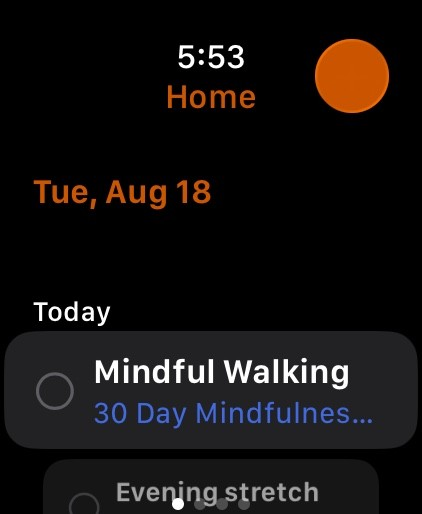
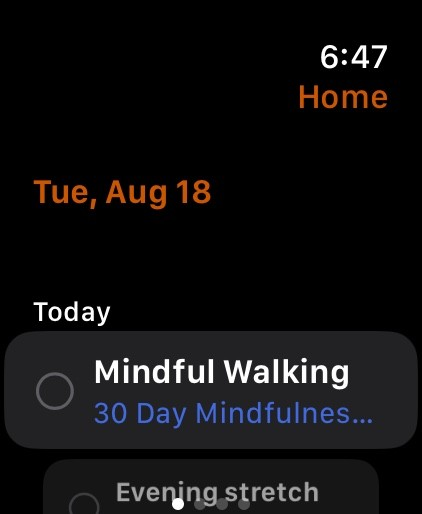
Show Watch without Quick Add and put the plus on Home Screen widgets.

Changed region(s): [[0.7085, 0.0623, 0.9242, 0.2179], [0.3697, 0.0623, 0.6161, 0.2179]]

diff --git a/index.html b/index.html
@@ -58,7 +58,7 @@
       </article>
       <article class="feature">
         <h2>Keep it with you</h2>
-        <p>Widgets on the Home Screen and a Watch app so you can update from wherever you train. Progress, plans, and trophies stay in sync over iCloud.</p>
+        <p>Home Screen widgets have a plus for Quick Tasks, and the Watch app lets you check off workouts on your wrist. Progress, plans, and trophies stay in sync over iCloud.</p>
       </article>
     </section>
 
@@ -168,7 +168,7 @@
       <h2>On Apple Watch</h2>
       <p>Watch</p>
     </div>
-    <p class="section-lede">Swipe between Home, Calendar, Progress, and Settings. Add a Quick Task from the plus button, mark a workout complete on your wrist, and it syncs back to iPhone and iPad.</p>
+    <p class="section-lede">Swipe between Home, Calendar, Progress, and Settings. Mark a workout complete on your wrist, and it syncs back to iPhone and iPad. Quick Tasks you add on iPhone or iPad show up here too.</p>
     <div class="shots">
       <figure class="shot shot-watch">
         <div class="device watch">
@@ -216,10 +216,10 @@
       <h2>Home Screen widgets</h2>
       <p>Upcoming and Progress</p>
     </div>
-    <p class="section-lede">Add Check Yourself to your Home Screen to see what’s next and check off a workout without opening the app.</p>
+    <p class="section-lede">Add Check Yourself to your Home Screen to see what’s next, check off a workout, or tap the plus to add a Quick Task without opening the app.</p>
     <div class="widget-shelf" aria-label="Example Home Screen widgets">
       <article class="ios-widget">
-        <h3>Upcoming</h3>
+        <h3>Upcoming <span class="widget-add" aria-hidden="true">+</span></h3>
         <ul>
           <li>
             <span class="mark" aria-hidden="true"></span>
@@ -238,7 +238,7 @@
         </ul>
       </article>
       <article class="ios-widget">
-        <h3>Progress</h3>
+        <h3>Progress <span class="widget-add" aria-hidden="true">+</span></h3>
         <div class="progress-row">
           <strong>30 Day Mindfulness Plan</strong>
           <div class="bar" aria-hidden="true"><span style="width: 33%"></span></div>
@@ -251,7 +251,7 @@
         </div>
       </article>
     </div>
-    <p class="widget-note">Touch and hold the Home Screen, tap <strong>Edit</strong>, then <strong>Add Widget</strong>, and choose Check Yourself. Upcoming can mark a workout complete. Progress opens the Progress tab. Inside the app, the Home tab has its own Today, Upcoming, Recent, and Progress cards you can reorder. The plus button adds a Quick Task from any screen.</p>
+    <p class="widget-note">Touch and hold the Home Screen, tap <strong>Edit</strong>, then <strong>Add Widget</strong>, and choose Check Yourself. Upcoming can mark a workout complete. Progress opens the Progress tab. The plus on either widget opens Quick Add. Inside the app, the Home tab has its own Today, Upcoming, Recent, and Progress cards you can reorder. On iPhone and iPad, the plus button adds a Quick Task from any screen.</p>
 
     <footer class="site-footer">
       <nav>

diff --git a/how-to/index.html b/how-to/index.html
@@ -195,7 +195,7 @@
       <div class="step-copy">
         <p class="kicker">8</p>
         <h2>Add a Quick Task</h2>
-        <p>The plus button on every screen — and on Apple Watch — adds a one-off task with a due date and an optional reminder. Quick Tasks show up in Progress and do not belong to a training plan.</p>
+        <p>The plus button on every iPhone and iPad screen, and on Home Screen widgets, adds a one-off task with a due date and an optional reminder. Quick Tasks show up in Progress and on Apple Watch. They do not belong to a training plan.</p>
       </div>
       <div class="step-shots">
         <figure class="shot">
@@ -214,11 +214,11 @@
         <p class="kicker">9</p>
         <h2>Add Home Screen widgets</h2>
         <p>Touch and hold the Home Screen, tap <strong>Edit</strong>, then <strong>Add Widget</strong>, and choose Check Yourself.</p>
-        <p><strong>Upcoming</strong> shows what’s next and can mark a workout complete. <strong>Progress</strong> shows how far you are through a plan and opens the Progress tab.</p>
+        <p><strong>Upcoming</strong> shows what’s next and can mark a workout complete. <strong>Progress</strong> shows how far you are through a plan and opens the Progress tab. The plus on either widget opens Quick Add.</p>
       </div>
       <div class="widget-shelf">
         <article class="ios-widget">
-          <h3>Upcoming</h3>
+          <h3>Upcoming <span class="widget-add" aria-hidden="true">+</span></h3>
           <ul>
             <li>
               <span class="mark" aria-hidden="true"></span>
@@ -237,7 +237,7 @@
           </ul>
         </article>
         <article class="ios-widget">
-          <h3>Progress</h3>
+          <h3>Progress <span class="widget-add" aria-hidden="true">+</span></h3>
           <div class="progress-row">
             <strong>30 Day Mindfulness Plan</strong>
             <div class="bar" aria-hidden="true"><span style="width: 33%"></span></div>
@@ -251,7 +251,7 @@
       <div class="step-copy">
         <p class="kicker">10</p>
         <h2>Use it from your wrist</h2>
-        <p>On Apple Watch, swipe between Home, Calendar, Progress, and Settings. Tap the plus button to add a Quick Task. Tap the circle next to a workout to mark it complete. Changes sync with iPhone and iPad over iCloud.</p>
+        <p>On Apple Watch, swipe between Home, Calendar, Progress, and Settings. Tap the circle next to a workout to mark it complete. Quick Tasks you add on iPhone or iPad show up here too. Changes sync with iPhone and iPad over iCloud.</p>
       </div>
       <div class="step-shots">
         <figure class="shot shot-watch">

diff --git a/styles.css b/styles.css
@@ -392,6 +392,22 @@ h2 {
   text-transform: uppercase;
 }
 
+.ios-widget .widget-add {
+  margin-left: auto;
+  display: grid;
+  place-items: center;
+  width: 1.35rem;
+  height: 1.35rem;
+  border-radius: 50%;
+  background: var(--accent);
+  color: #fff;
+  font-size: 1rem;
+  font-weight: 700;
+  line-height: 1;
+  letter-spacing: 0;
+  text-transform: none;
+}
+
 .ios-widget ul {
   margin: 0;
   padding: 0;
